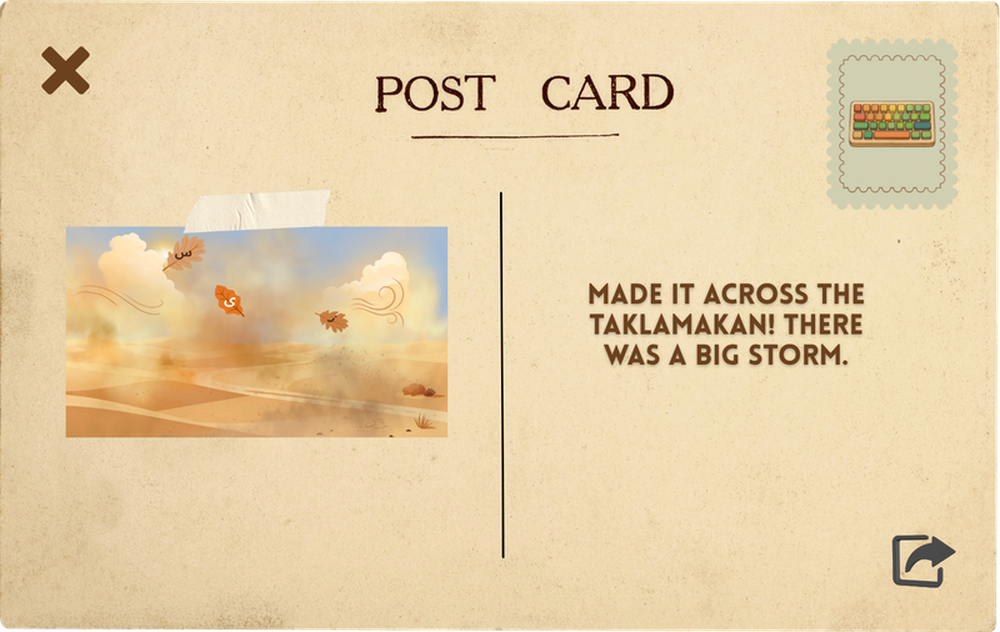
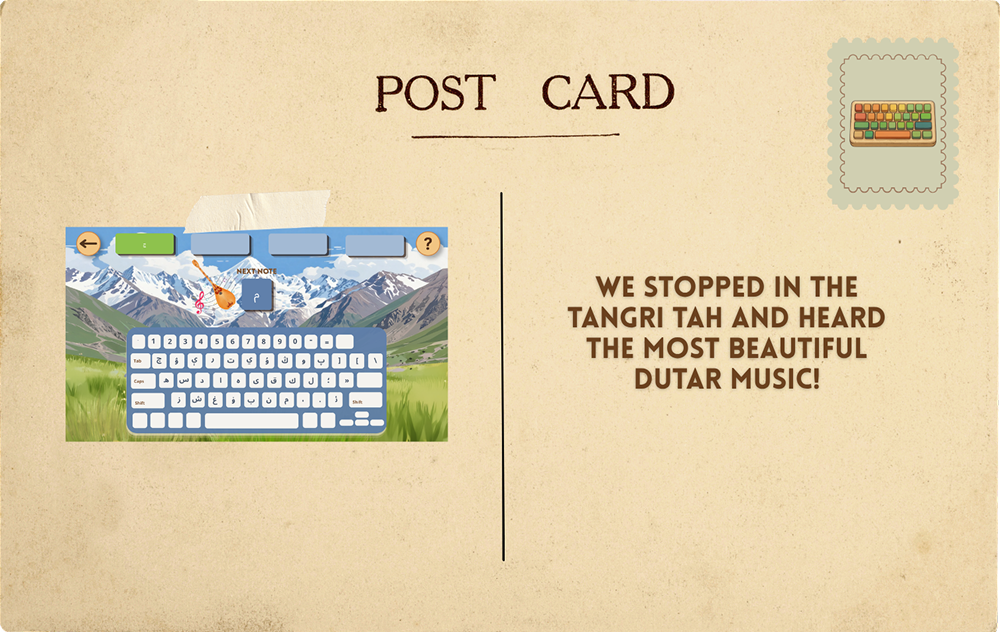
feat(game): added postcard buttons

diff --git a/apps/game/src/app/popups/postcard/index.ts b/apps/game/src/app/popups/postcard/index.ts
@@ -1,3 +1,4 @@
+import { FancyButton } from '@pixi/ui';
 import { animate } from 'motion';
 import { Assets, Container, Sprite, Texture } from 'pixi.js';
 
@@ -36,6 +37,9 @@ export class PostcardPopup extends Container {
   private isFlipping = false;
   private showingBack = false;
 
+  private closeButton: FancyButton;
+  private shareButton: FancyButton;
+
   constructor(slug: string) {
     super();
 
@@ -45,16 +49,58 @@ export class PostcardPopup extends Container {
       alpha: DIM_ALPHA,
     });
     this.dimOverlay.eventMode = 'static';
-    this.dimOverlay.on('pointertap', () => {
-      // handle mid flip taps
-      if (this.isFlipping) return;
-      void engine().navigation.hidePopup();
-    });
 
     this.cardFront = new Sprite({
       texture: Texture.from(`${POSTCARD_ROOT}/${slug}/front.png`),
     });
     this.cardFront.anchor.set(0.5);
+
+    this.closeButton = new FancyButton({
+      defaultView: 'typing-levels/postcards/x-button.svg',
+      animations: {
+        hover: {
+          props: {
+            scale: { x: 1.1, y: 1.1 },
+          },
+          duration: 100,
+        },
+        pressed: {
+          props: {
+            scale: { x: 0.97, y: 0.97 },
+          },
+          duration: 100,
+        },
+      },
+      anchor: 0.5,
+    });
+
+    this.closeButton.onPress.connect(() => {
+      void engine().audio.sfx.play('preload-audio/sfx/button-click.mp3');
+      void engine().navigation.hidePopup();
+    });
+
+    this.shareButton = new FancyButton({
+      defaultView: 'typing-levels/postcards/share-button.svg',
+      animations: {
+        hover: {
+          props: {
+            scale: { x: 1.1, y: 1.1 },
+          },
+          duration: 100,
+        },
+        pressed: {
+          props: {
+            scale: { x: 0.97, y: 0.97 },
+          },
+          duration: 100,
+        },
+      },
+      anchor: 0.5,
+    });
+
+    this.shareButton.onPress.connect(() => {
+      void engine().audio.sfx.play('preload-audio/sfx/button-click.mp3');
+    });
 
     // missing certain imgs
     const backAlias = `${POSTCARD_ROOT}/${slug}/back.png`;
@@ -78,13 +124,18 @@ export class PostcardPopup extends Container {
     this.cardScaler = new Container();
     this.cardScaler.addChild(this.cardFlipper);
 
-    this.addChild(this.dimOverlay, this.cardScaler);
+    this.addChild(this.dimOverlay, this.cardScaler, this.closeButton, this.shareButton);
+
+    this.updateButtonsVisibility();
   }
 
   /** Squash the card horizontally, swap faces at the midpoint, then expand it again */
   private async flip() {
     if (this.isFlipping || !this.cardBack) return;
     this.isFlipping = true;
+
+    this.closeButton.visible = false;
+    this.shareButton.visible = false;
 
     void engine().audio.sfx.play('typing-levels/postcards/paper-flip.mp3');
 
@@ -105,6 +156,7 @@ export class PostcardPopup extends Container {
     );
 
     this.isFlipping = false;
+    this.updateButtonsVisibility();
   }
 
   public async show() {
@@ -116,6 +168,7 @@ export class PostcardPopup extends Container {
     if (this.cardBack) {
       this.cardBack.visible = false;
     }
+    this.updateButtonsVisibility();
 
     this.dimOverlay.alpha = 0;
     this.cardScaler.alpha = 0;
@@ -156,6 +209,21 @@ export class PostcardPopup extends Container {
       (height * CARD_VIEWPORT_RATIO) / cardHeight,
       1,
     );
+
     this.cardScaler.scale.set(fit);
+    const cx = width / 2;
+    const cy = height / 2;
+    const halfW = (cardWidth * fit) / 2;
+    const halfH = (cardHeight * fit) / 2;
+    const insetX = 70 * fit;
+    const insetY = 55 * fit;
+    this.closeButton.position.set(cx - halfW + insetX, cy - halfH + insetY);
+    this.shareButton.position.set(cx + halfW - insetX, cy + halfH - insetY);
+  }
+
+  private updateButtonsVisibility() {
+    const cardBackExists = this.cardBack != null;
+    this.closeButton.visible = cardBackExists && this.showingBack;
+    this.shareButton.visible = cardBackExists && this.showingBack;
   }
 }
